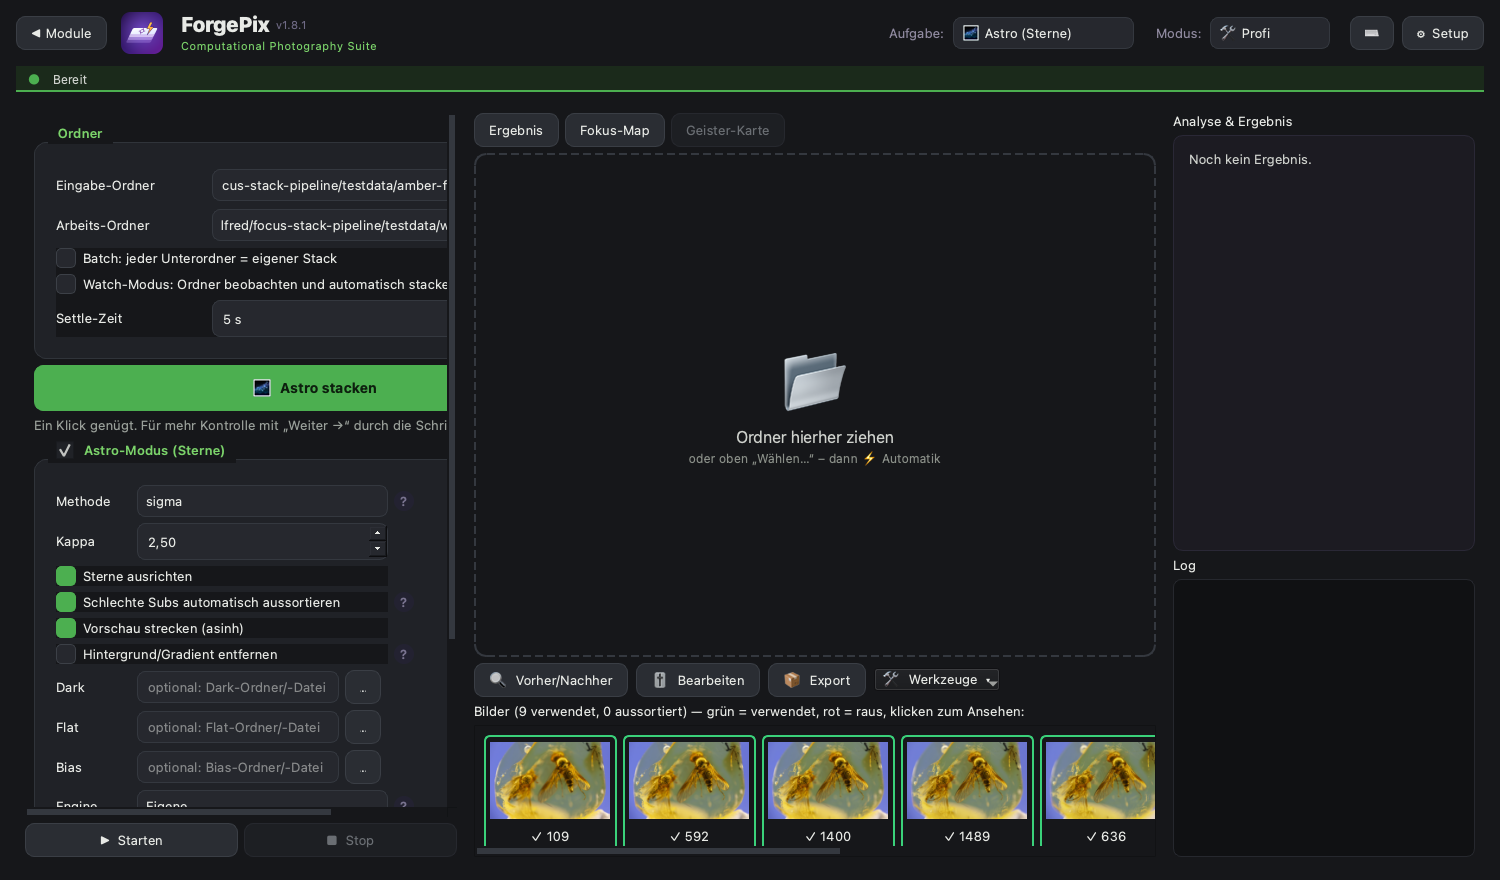
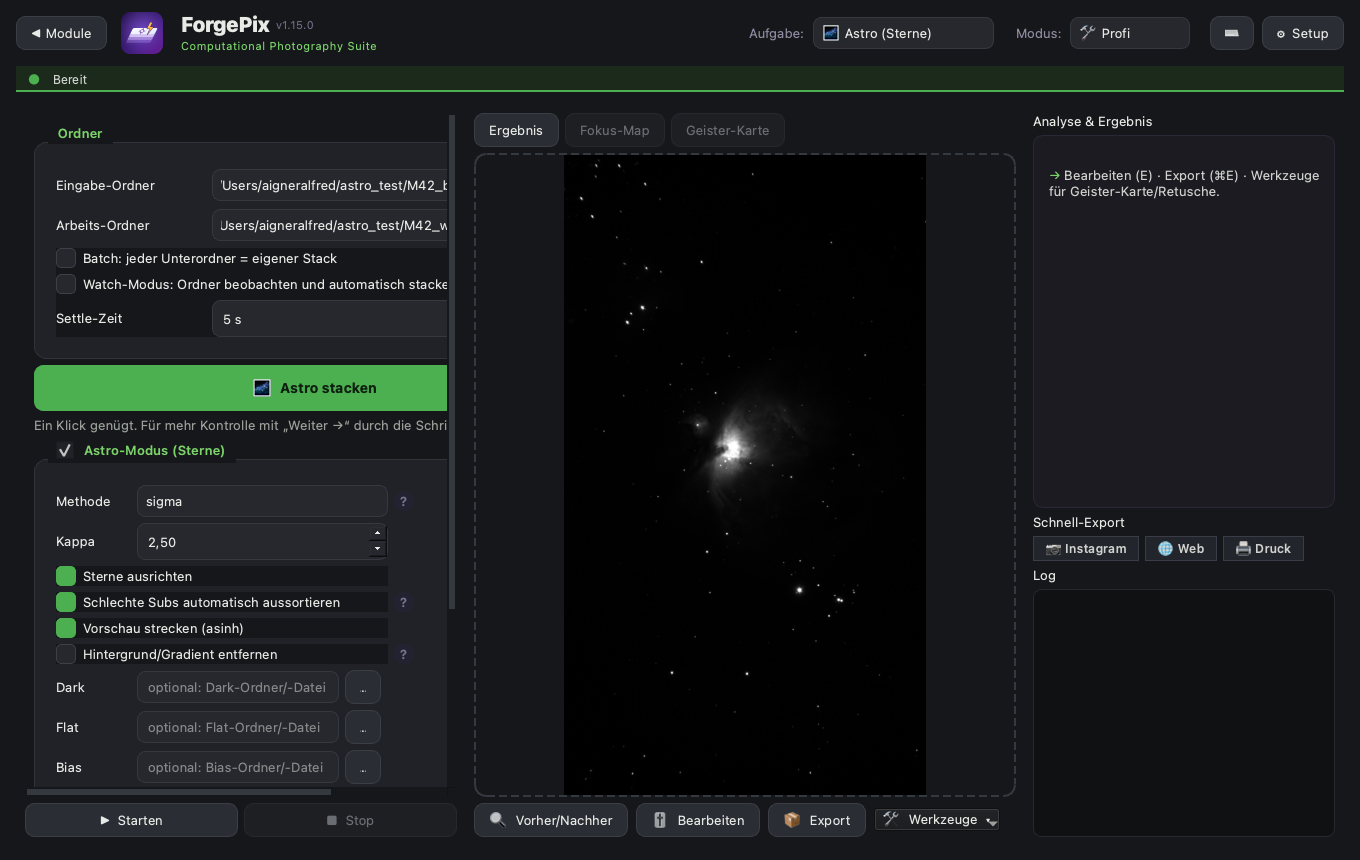
fix(ui): IMG_EXTS-Import in result_view -> Ergebnis-Anzeige crashte seit v1.10.1 (v1.15.1)
KRITISCH: _find_result/_show_result nutzte IMG_EXTS, das beim Modularisieren nicht nach
ui/result_view.py importiert wurde -> NameError nach JEDEM Lauf, Ergebnis wurde nicht angezeigt.
- Import ergaenzt (from ui.appinfo import _cache_path, IMG_EXTS).
- Regressionstest TestGuiShowResult deckt den Anzeige-Pfad ab (43 Tests).
- pyflakes-Scan ueber alle Module: keine weiteren undefined names.
- 03_astro.png: echter M42-Orion-Stack (49 Seestar-Subs, Feldrotation+Sigma, mit Spark-KI-Sub-Bewertung).

Gefunden beim echten Astro-Test mit Seestar-FITS vom USB-Stick.

diff --git a/tests/test_engines.py b/tests/test_engines.py
@@ -305,6 +305,31 @@ class TestI18n(unittest.TestCase):
         self.assertEqual(missing, [], f"Ohne EN-Übersetzung: {missing[:5]}")
 
 
+class TestGuiShowResult(unittest.TestCase):
+    """Regression: _show_result/_find_result darf nicht crashen (IMG_EXTS-Import-Bug v1.10.1–1.15.0)."""
+    def test_show_result_loads_without_crash(self):
+        os.environ.setdefault("QT_QPA_PLATFORM", "offscreen")
+        try:
+            from PySide6.QtWidgets import QApplication
+            import numpy as np
+            import cv2
+            import focus_stack_gui as g
+        except Exception as e:  # pragma: no cover
+            self.skipTest(f"Qt/cv2 nicht verfügbar: {e}")
+        import tempfile
+        app = QApplication.instance() or QApplication([])
+        app.setStyleSheet(g.THEME)
+        w = g.MainWindow()
+        work = tempfile.mkdtemp()
+        stack = os.path.join(work, "stack")
+        os.makedirs(stack)
+        cv2.imwrite(os.path.join(stack, "result.jpg"), (np.zeros((30, 40, 3)) + 80).astype("uint8"))
+        w.work_edit.setText(work)
+        w._show_result()                       # darf NICHT werfen (NameError IMG_EXTS)
+        self.assertTrue(w.result_path and w.result_path.endswith("result.jpg"))
+        w.close()
+
+
 class TestGuiSmoke(unittest.TestCase):
     def test_mainwindow_builds(self):
         os.environ.setdefault("QT_QPA_PLATFORM", "offscreen")

diff --git a/constants.py b/constants.py
@@ -4,7 +4,7 @@ constants.py — gemeinsame Konstanten für ForgePix (eine zentrale Definition,
 damit Module nicht auseinanderlaufen).
 """
 
-VERSION = "1.15.0"
+VERSION = "1.15.1"
 
 # Kamera-RAW-Formate, die rawpy entwickeln kann
 RAW_EXTS = {".arw", ".cr2", ".cr3", ".nef", ".raf", ".rw2", ".dng", ".orf", ".pef", ".srw"}

diff --git a/ui/result_view.py b/ui/result_view.py
@@ -7,7 +7,7 @@ from PySide6.QtCore import Qt
 from PySide6.QtGui import QPixmap
 
 from i18n import tr
-from ui.appinfo import _cache_path
+from ui.appinfo import _cache_path, IMG_EXTS
 
 try:
     import cv2

diff --git a/CHANGELOG.md b/CHANGELOG.md
@@ -4,6 +4,16 @@ Alle nennenswerten Änderungen an ForgePix. Format orientiert an
 [Keep a Changelog](https://keepachangelog.com/de/), Versionierung nach
 [SemVer](https://semver.org/lang/de/).
 
+## [1.15.1] – 2026-06-26
+### Behoben (kritisch)
+- **Ergebnis-Anzeige stürzte ab:** Seit der Modularisierung (v1.10.1) fehlte in `ui/result_view.py`
+  der Import von `IMG_EXTS` — `_find_result`/`_show_result` warf nach **jedem** Lauf einen
+  `NameError`, das Ergebnis wurde nicht angezeigt. Import ergänzt. Neuer Regressionstest deckt
+  den kompletten Anzeige-Pfad ab; pyflakes-Scan bestätigt: keine weiteren fehlenden Importe.
+### Geändert
+- **Echter Astro-Screenshot:** `03_astro.png` zeigt jetzt einen realen ForgePix-Stack von **M 42
+  (Orion)** aus 49 Seestar-Subs (Feldrotation + Sigma-Rejection), inkl. KI-Sub-Bewertung.
+
 ## [1.15.0] – 2026-06-26
 ### Hinzugefügt
 - **EXIF auch in 16-bit-TIFF — ohne exiftool:** TIFF-Ausgaben bekommen jetzt die Kern-Provenienz

diff --git a/README.de.md b/README.de.md
@@ -157,7 +157,7 @@ automatisch in der Sprachauswahl.
 ./run_tests.sh        # oder: python3 -m unittest discover -s tests
 ```
 
-42 Engine‑Tests (Standardbibliothek, kein pytest nötig) decken Fokus‑Analyse, Langzeit, Astro,
+43 Engine‑Tests (Standardbibliothek, kein pytest nötig) decken Fokus‑Analyse, Langzeit, Astro,
 Stacker, Mosaik, Export, Parallel‑Helfer, Modul‑Erkennung, KI‑Kontext, i18n‑Vollständigkeit und
 einen GUI‑Smoke‑Test ab.
 

diff --git a/README.md b/README.md
@@ -153,7 +153,7 @@ language menu automatically.
 ./run_tests.sh        # or: python3 -m unittest discover -s tests
 ```
 
-42 engine tests (standard library, no pytest needed) cover focus analysis, long exposure, astro,
+43 engine tests (standard library, no pytest needed) cover focus analysis, long exposure, astro,
 stacker, mosaic, export, parallel helper, module guessing, AI context, i18n completeness and a GUI
 smoke test.
 